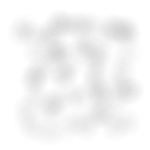
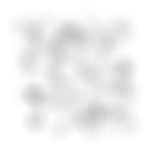
More work on fog, alllowing different kinds of fog densities

diff --git a/IceBlink2/ScreenMainMap.cs b/IceBlink2/ScreenMainMap.cs
@@ -426,20 +426,34 @@ namespace IceBlink2
 
                 if ((mod.isFoggy) && (!mod.blockFogCreation))
                 {
-                //gv.fogType
+
+                gv.mod.blockFogCreation = true;
                 float speedMultiplier = 0;
                 float positionModifierX = 0;
                 float positionModifierY = 0;
                 string layerType = "";
                 int decider = 0;
+                int iLimit = 0;
+                if (gv.fogType.Contains("lightFog") || gv.fogType.Contains("LightFog"))
+                {
+                    iLimit = 2;
+                }
+                else if (gv.fogType.Contains("heavyFog") || gv.fogType.Contains("HeavyFog"))
+                {
+                    iLimit = 8;
+                }
+                else if (gv.fogType.Contains("fog") || gv.fogType.Contains("Fog"))
+                {
+                    iLimit = 4;
+                }
 
-                for (int i = 0; i < 4; i++)
+                for (int i = 0; i < iLimit; i++)
                 {
                     if (i == 0)
                     {
                         layerType = "fog1";
-                        decider = gv.sf.RandInt(50);
-                        speedMultiplier = 0.75f + (decider / 100f);
+                        decider = gv.sf.RandInt(20);
+                        speedMultiplier = 0.55f + (decider / 100f);
                         positionModifierX = (-4) * gv.squareSize;
                     }
                         
@@ -447,7 +461,7 @@ namespace IceBlink2
                     {
                         layerType = "fog2";
                         decider = gv.sf.RandInt(50);
-                        speedMultiplier += 0.2f;
+                        speedMultiplier += 0.05f;
                         positionModifierX = (4) * gv.squareSize;
                     }
 
@@ -455,7 +469,7 @@ namespace IceBlink2
                     {
                         layerType = "fog3";
                         decider = gv.sf.RandInt(50);
-                        speedMultiplier += 0.2f;
+                        speedMultiplier += 0.05f;
                         positionModifierX = (2) * gv.squareSize;
                         positionModifierY = (2) * gv.squareSize;
                     }
@@ -464,16 +478,48 @@ namespace IceBlink2
                     {
                         layerType = "fog4";
                         decider = gv.sf.RandInt(50);
-                        speedMultiplier += 0.2f;
+                        speedMultiplier += 0.05f;
                         positionModifierX = (-2) * gv.squareSize;
                         positionModifierY = (-2) * gv.squareSize;
                     }
 
+                    if (i == 4)
+                    {
+                        layerType = "fog5";
+                        decider = gv.sf.RandInt(50);
+                        speedMultiplier += 0.05f;
+                        positionModifierX = (-6) * gv.squareSize;
+                       
+                    }
+
+                    if (i == 5)
+                    {
+                        layerType = "fog6";
+                        decider = gv.sf.RandInt(50);
+                        speedMultiplier += 0.05f;
+                        positionModifierX = 6 * gv.squareSize;
+
+                    }
+                    if (i == 6)
+                    {
+                        layerType = "fog5";
+                        decider = gv.sf.RandInt(50);
+                        speedMultiplier += 0.05f;
+                        positionModifierX = (-1) * gv.squareSize;
+                        positionModifierY = (-1) * gv.squareSize;
+
+                    }
+
+                    if (i == 7)
+                    {
+                        layerType = "fog6";
+                        decider = gv.sf.RandInt(50);
+                        speedMultiplier += 0.05f;
+                        positionModifierX = gv.squareSize;
+                        positionModifierY = gv.squareSize;
+                    }
+
                     gv.cc.createFog(layerType, speedMultiplier, positionModifierX, positionModifierY);
-                        if (i == 3)
-                        {
-                            gv.mod.blockFogCreation = true;
-                        }
                     }
                 }
             
